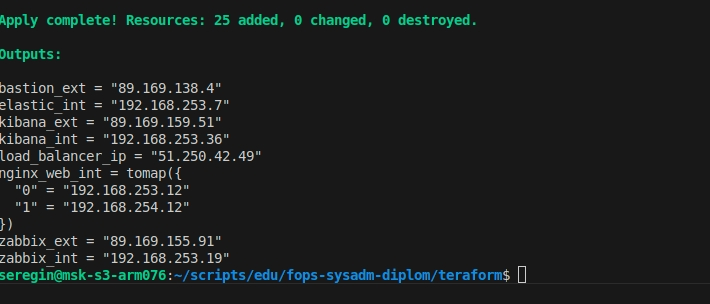
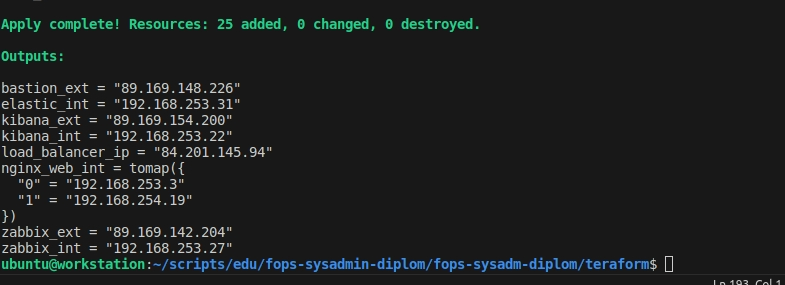
precomplete

diff --git a/README.md b/README.md
@@ -127,7 +127,7 @@ Cоздайте ВМ, разверните на ней Elasticsearch. Устан
 
 **Технические особенности деплоя**
 
-1. Минимальная конфигурация каждой ВМ (2vcpu, 1ram, 10hdd, непрерываемая, core fraction 5, ubuntu22). 
+1. Минимальная конфигурация ВМ Bastion (2vcpu, 1ram, 10hdd, непрерываемая, гарантированная производительность ядер 5, ubuntu22; производительность ядер не важна на машине для управления инфраструктурой). Остальные ВМ гарантированная производительность ядер = 20. ВМ работающие с данными (БД Забикс, Elasticsearch - увеличена память до 2 гб)
 2. Минимальная конфигурация каждой сети - Nat Gateway, Route Table.
 3. После выполнения деплоя teraform по шаблону ansible/hosts.tpl собирается файл hosts для дальнейшего использования teraform
 4. После выполнения деплоя ВМ bastion вызывается набор провижнеров: 
@@ -181,7 +181,14 @@ Cоздайте ВМ, разверните на ней Elasticsearch. Устан
 **Результат выполнения teraform+ansible**
 
 <img src = "img/img1.jpg" width = 100%>
+<img src = "img/final1.jpg" width = 100%>
+<img src = "img/final2.jpg" width = 100%>
 
 Работа балансировщика:
+http://84.201.145.94/
+
+kibana:
+http://89.169.154.200:5601/app/dashboards#/view/046212a0-a2a1-11e7-928f-5dbe6f6f5519-ecs?_g=(filters:!(),refreshInterval:(pause:!t,value:0),time:(from:now-15m,to:now))
 
 
+zabbix:
